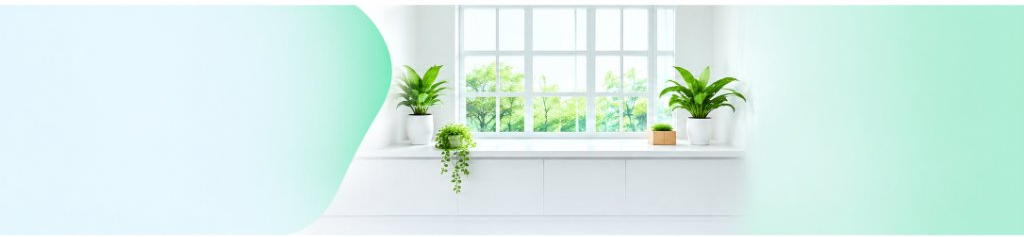
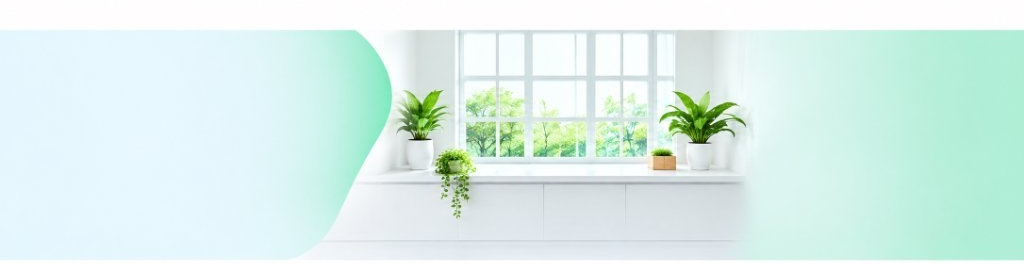
feat: apply user provided image as background image for Wellness Packages hero section

diff --git a/src/pages/WellnessPackagesPage.jsx b/src/pages/WellnessPackagesPage.jsx
@@ -187,11 +187,13 @@ export default function WellnessPackagesPage() {
       {/* ========================================================================= */}
       {/* 1. HERO SECTION matching exact Reference Image                            */}
       {/* ========================================================================= */}
-      <section className="relative overflow-hidden w-full border-b border-slate-200/80 bg-gradient-to-r from-[#EBF9F5] via-[#EFFBF8] to-[#E3F6F2]">
+      <section className="relative overflow-hidden w-full border-b border-slate-200/80 bg-[#EBF9F5]">
         
-        {/* Subtle Decorative Ambient Glows */}
-        <div className="absolute -top-16 -left-16 w-[380px] h-[380px] bg-[#D4F4EC]/60 rounded-full blur-3xl pointer-events-none" />
-        <div className="absolute top-1/2 right-[10%] w-[320px] h-[320px] bg-[#CEF0E8]/50 rounded-full blur-3xl pointer-events-none" />
+        {/* Hero Background Image - Covers entire section properly while maintaining original aspect ratio */}
+        <div 
+          className="absolute inset-0 w-full h-full bg-cover bg-center bg-no-repeat pointer-events-none select-none"
+          style={{ backgroundImage: "url('/wellness-hero-bg.jpg')" }}
+        />
 
         <div className="relative z-10 w-full px-4 sm:px-6 lg:px-8 xl:px-12 2xl:px-16 pt-7 sm:pt-9 lg:pt-10 pb-7 sm:pb-9 lg:pb-10">
           <div className="flex flex-col lg:flex-row items-center justify-between gap-6 lg:gap-4 xl:gap-8">
